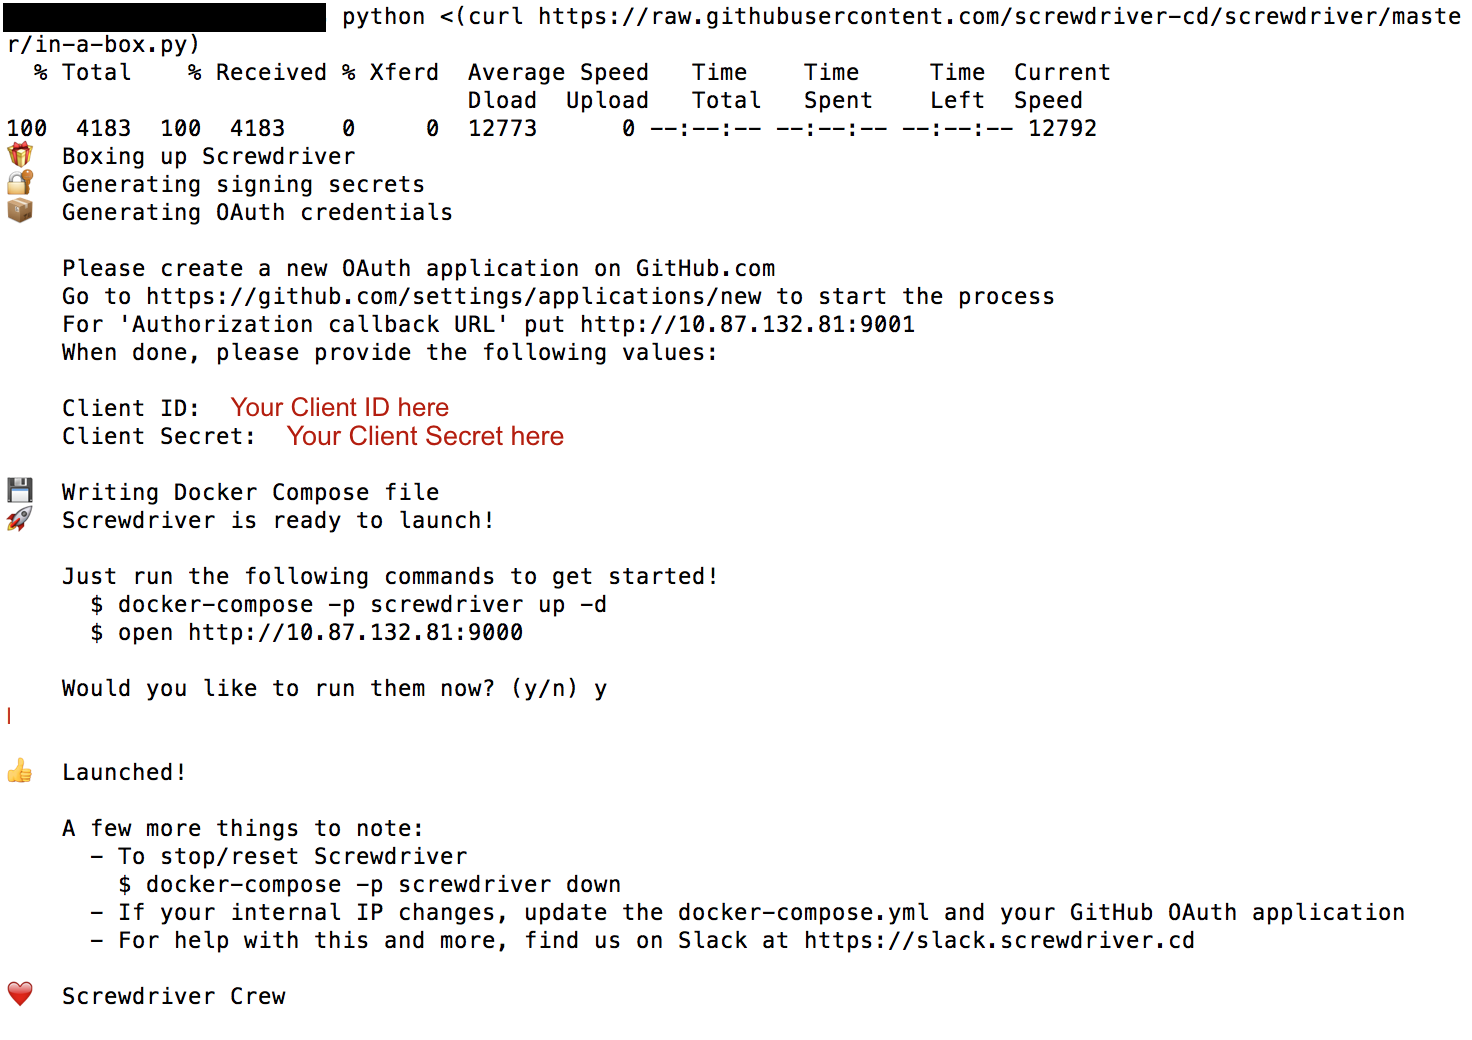
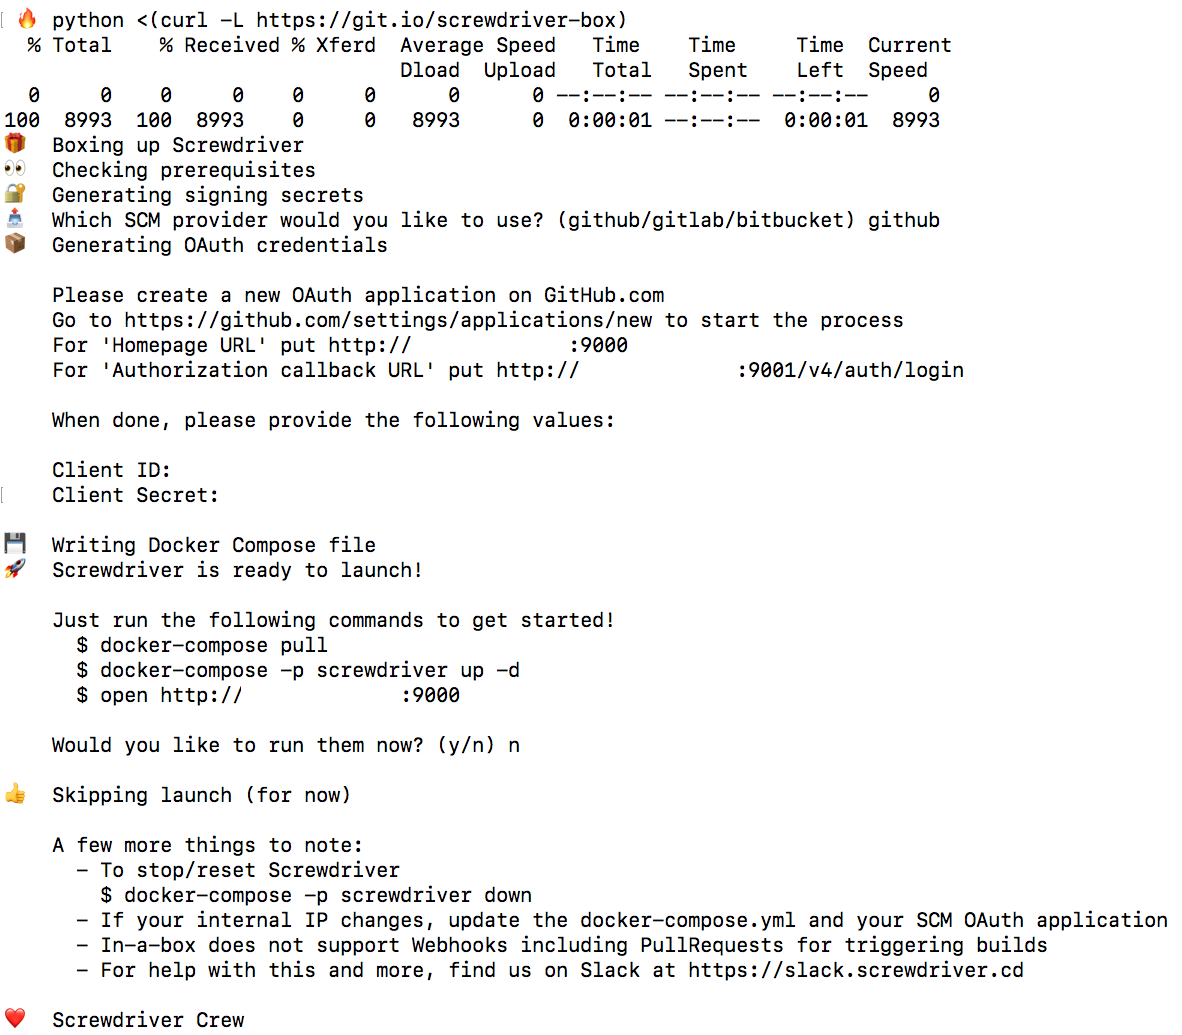
docs(321): Update SD-In-A-Box image

diff --git a/docs/cluster-management/running-locally.md b/docs/cluster-management/running-locally.md
@@ -18,9 +18,7 @@ You can run Screwdriver locally by using our Screwdriver-in-a-box tool.
 ## SD-in-a-Box
 This handy feature will bring up an entire Screwdriver instance (UI, API, and log store) locally for you to play with.
 
-1. Follow instructions in the [SD-in-a-box docs](https://github.com/screwdriver-cd/in-a-box#screwdriver-in-a-box).
-
-2. You will be prompted to enter your Client ID and Client Secret. Afterwards, type `y` to launch Screwdriver!
+Follow instructions in the [SD-in-a-box docs](https://github.com/screwdriver-cd/in-a-box#screwdriver-in-a-box).
 
 ![SD-in-a-box](./assets/sd-in-a-box.png)
 
